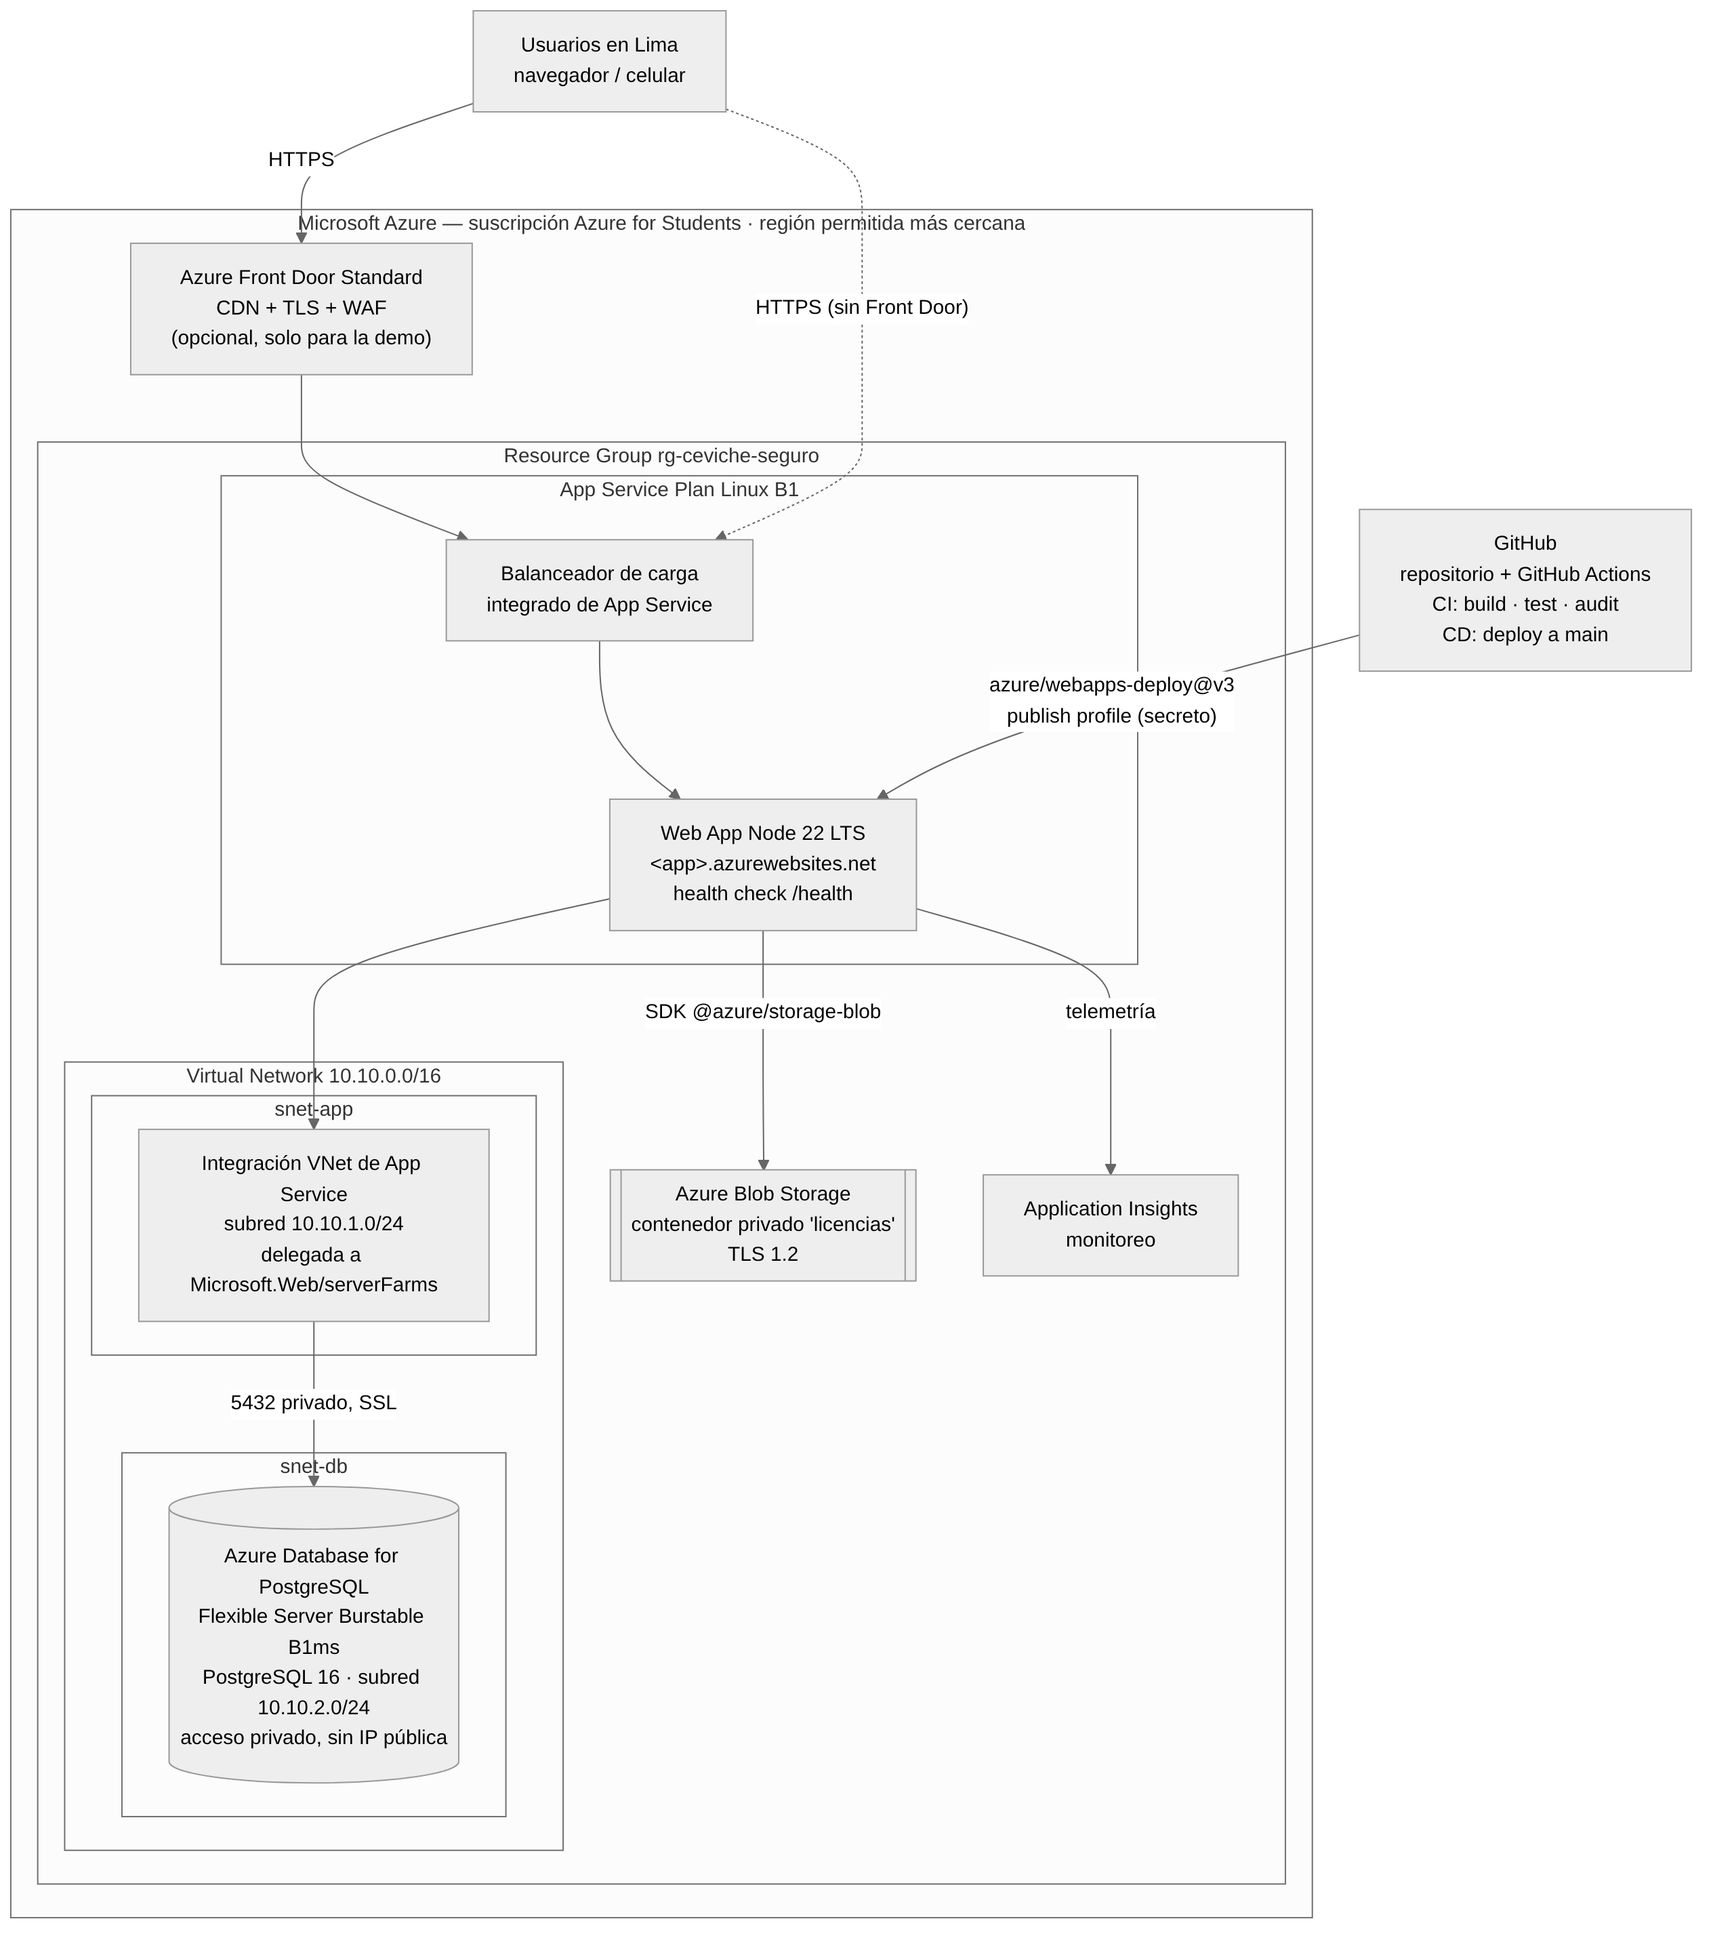
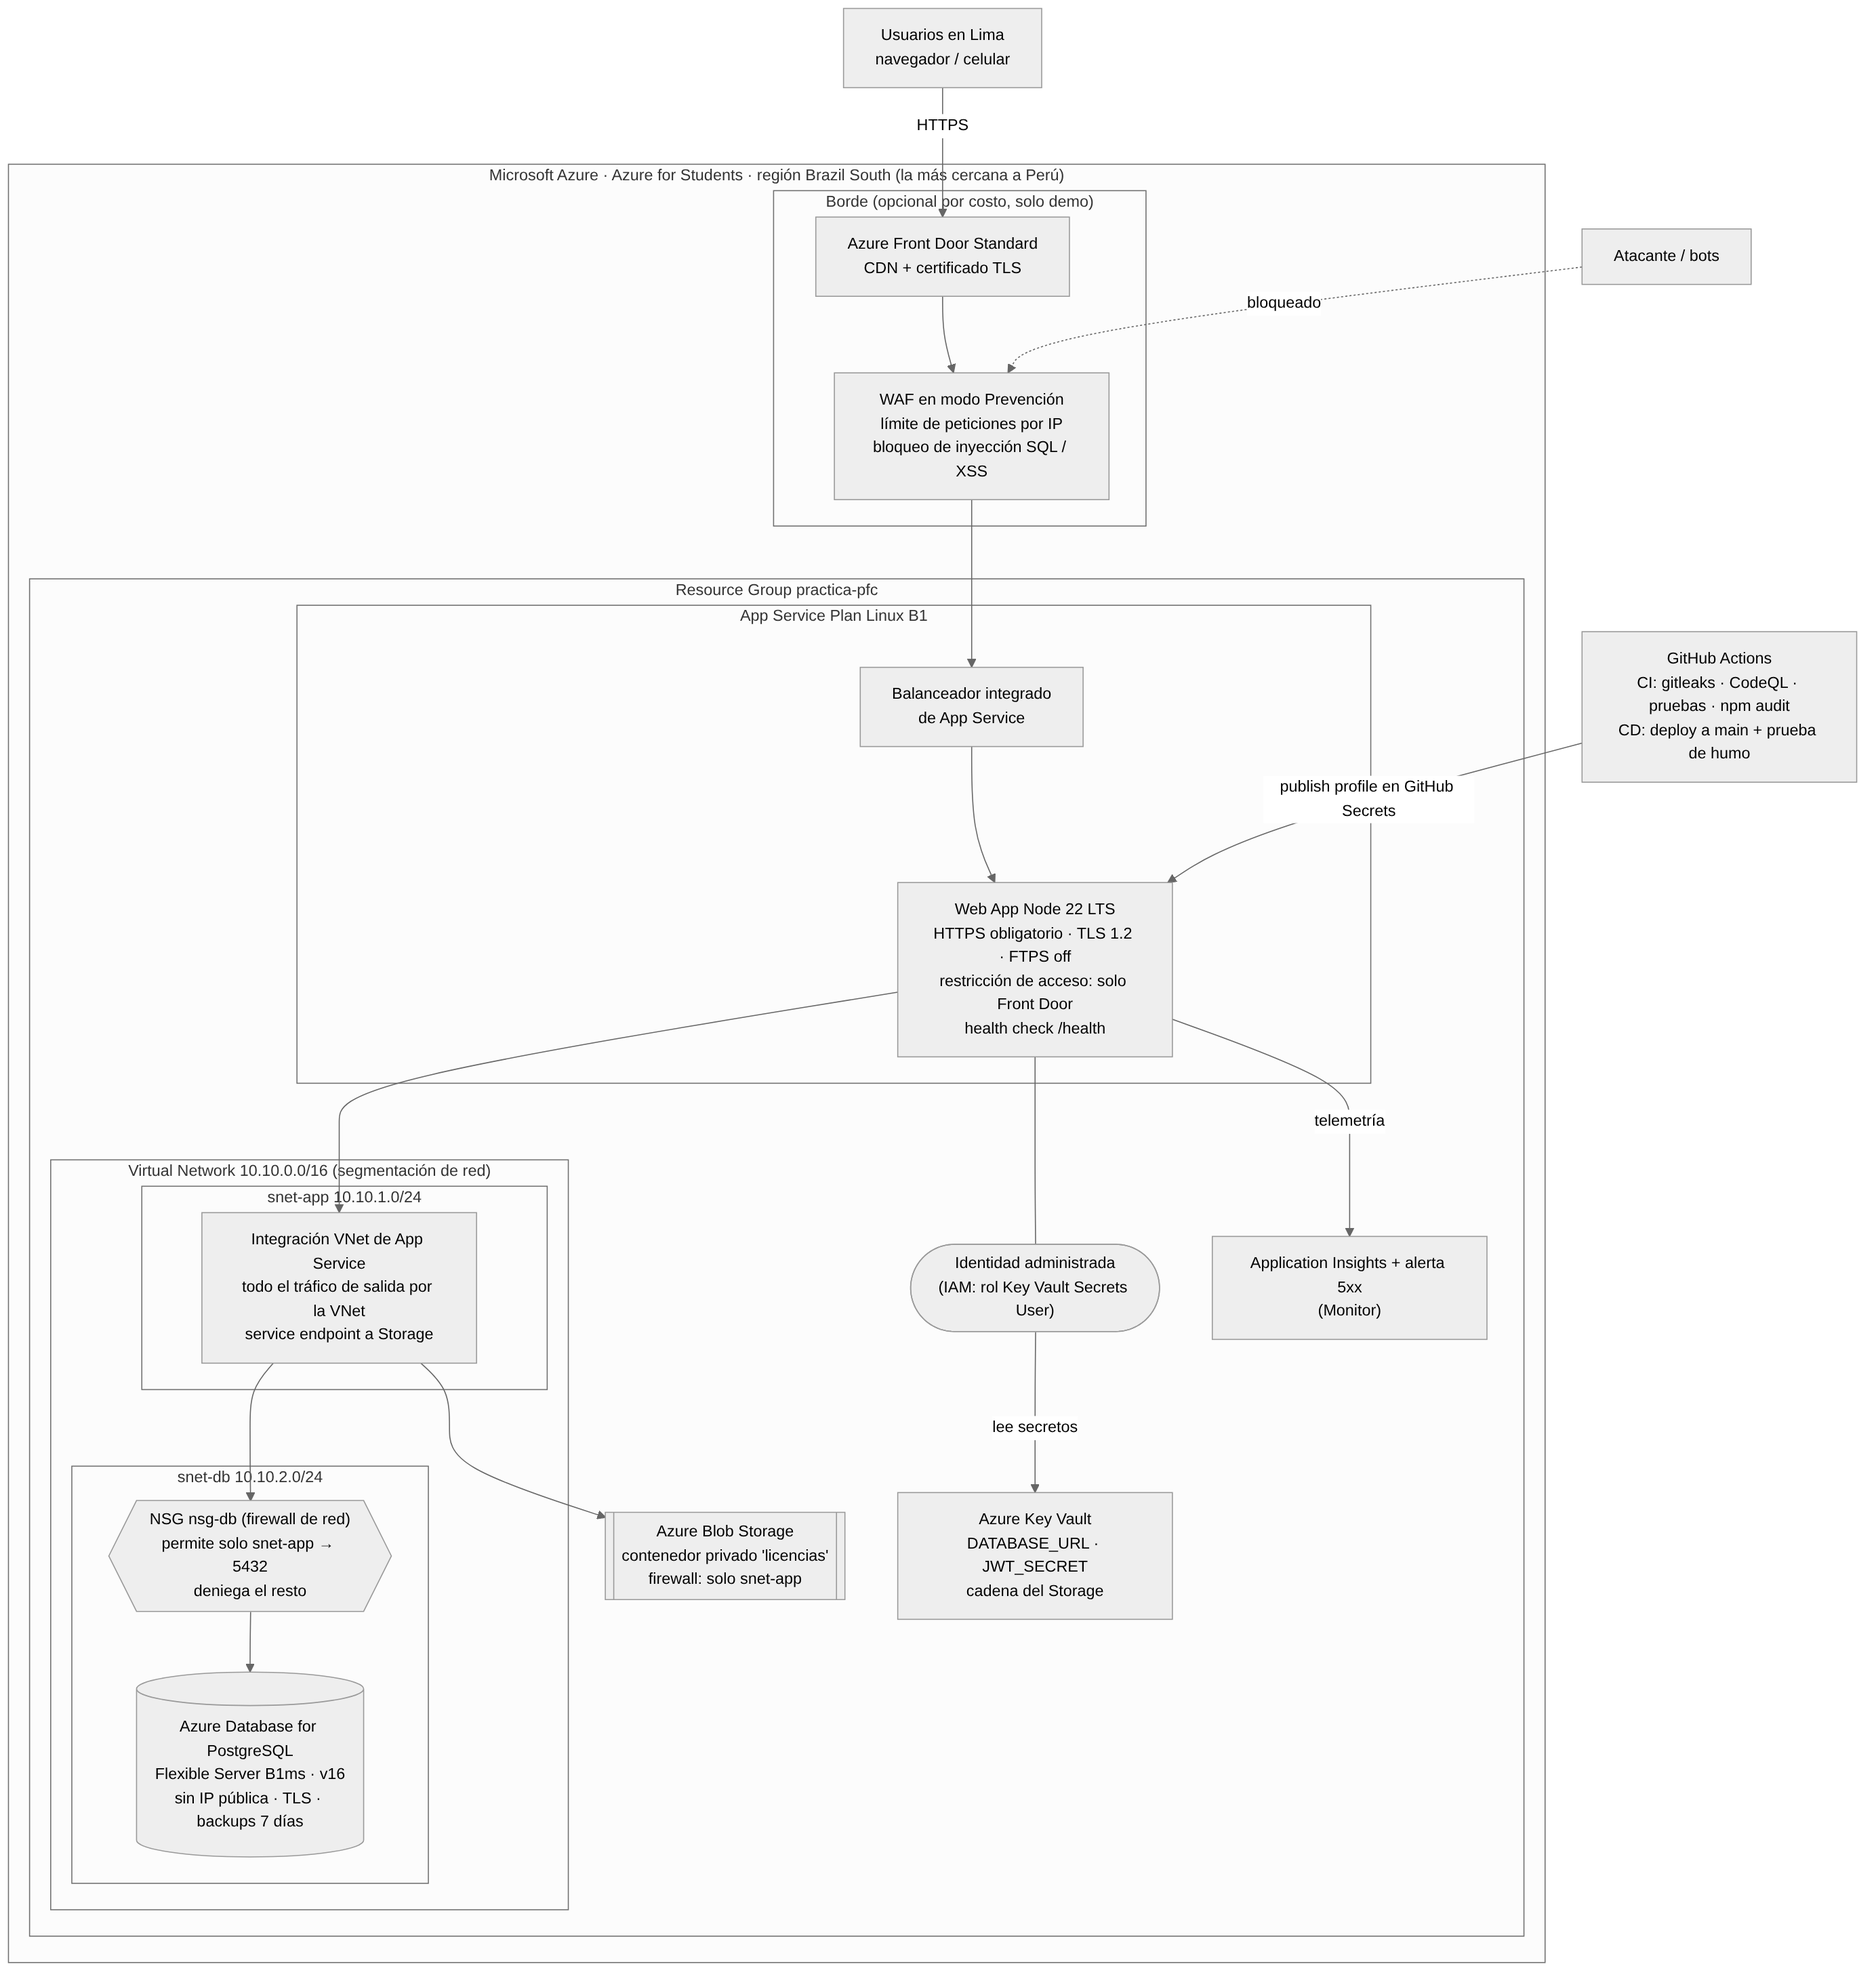
CS-12 docs: diagrama físico con la capa de seguridad y guía de seguridad
Claude-Session: https://claude.ai/code/session_01Y754H1WbnaGfqmgRUPQciW

diff --git a/docs/seguridad.md b/docs/seguridad.md
@@ -1,0 +1,29 @@
+# Seguridad en la arquitectura (para la sustentación)
+
+> "La seguridad no existe; es hacerla más difícil de vulnerar." Por eso se aplica en capas: borde, red, datos, identidad, código y monitoreo.
+
+| Capa | Concepto del curso | Servicio en Azure / herramienta | Estado | Costo |
+| --- | --- | --- | --- | --- |
+| Borde | WAF **antes** de entrar al servicio | Front Door Standard + política WAF (límite por IP, bloqueo de inyección SQL/XSS) | Script `azure-frontdoor.sh`, solo para la demo | ~35 USD/mes de base: crear y borrar |
+| Borde | CDN / distribución | Front Door (caché y TLS global) | Igual que arriba | Igual |
+| Borde | Autoescalado y costo ante ataques de sobrecarga | Límite de peticiones por IP en el WAF; plan B1 con escala manual (no crece solo) | Hecho | 0 |
+| Transporte | SSL/HTTPS | HTTPS obligatorio, TLS 1.2 mínimo, certificado administrado de `*.azurewebsites.net`; PostgreSQL exige TLS | Hecho | 0 |
+| Red | Segmentación (VLAN/subredes) | VNet 10.10.0.0/16 con `snet-app` y `snet-db` | Hecho | 0 |
+| Red | Firewall | NSG `nsg-db`: solo `snet-app` llega al puerto 5432 | `azure-seguridad.sh` | 0 |
+| Datos | BD no expuesta | PostgreSQL sin IP pública + DNS privado | Hecho | 0 |
+| Datos | Archivos privados | Blob sin acceso público + firewall que solo acepta `snet-app` | `azure-seguridad.sh` | 0 |
+| Datos | Respaldo | Backups automáticos de PostgreSQL (7 días) | Hecho (incluido) | 0 |
+| Identidad | IAM transversal, privilegio mínimo | Identidad administrada de la app con rol *Key Vault Secrets User*; JWT y roles en la API | `azure-seguridad.sh` | 0 |
+| Secretos | Gestor de secretos | Key Vault (BD, JWT, Storage) + GitHub Secrets (publish profile) | `azure-seguridad.sh` | Centavos |
+| Código | Escaneo de secretos (pre-commit/CI) | gitleaks en el pipeline | Pipeline | 0 |
+| Código | Escaneo de dependencias (caso Equifax) | `npm audit --audit-level=high` bloquea el pipeline | Hecho | 0 |
+| Código | Análisis estático (tipo SonarQube) | CodeQL `security-extended` | Pipeline | 0 (repo público) |
+| Operación | Monitor | Application Insights + alerta de errores 5xx + health check | `azure-seguridad.sh` | Mínimo |
+
+**Solo en el diagrama, por costo (sabes explicarlos, no los despliegas):** reglas administradas OWASP del WAF (Front Door Premium, ~330 USD/mes), Application Gateway WAF v2, DDoS Network Protection, private endpoints para Key Vault y Storage, alta disponibilidad con zona redundante en PostgreSQL y escalado automático (planes Standard/Premium).
+
+## Respuestas cortas
+- **¿Dónde está el firewall?** En dos niveles: el WAF de Front Door filtra el tráfico HTTP antes de llegar a la app, y el NSG filtra la red: a la base solo entra la subred de la app por el 5432.
+- **¿Dónde guardas las contraseñas?** En Key Vault. La app no tiene la contraseña escrita: tiene una referencia y su identidad administrada tiene permiso solo para **leer** secretos (privilegio mínimo).
+- **¿Y si alguien sube una clave al repo?** gitleaks la detecta en el pipeline y el despliegue no ocurre.
+- **¿Por qué no desplegaste todo?** Por el triángulo de hierro: el costo. Diseñé la arquitectura completa; desplegué lo que no tiene costo fijo y Front Door solo para la demostración.
